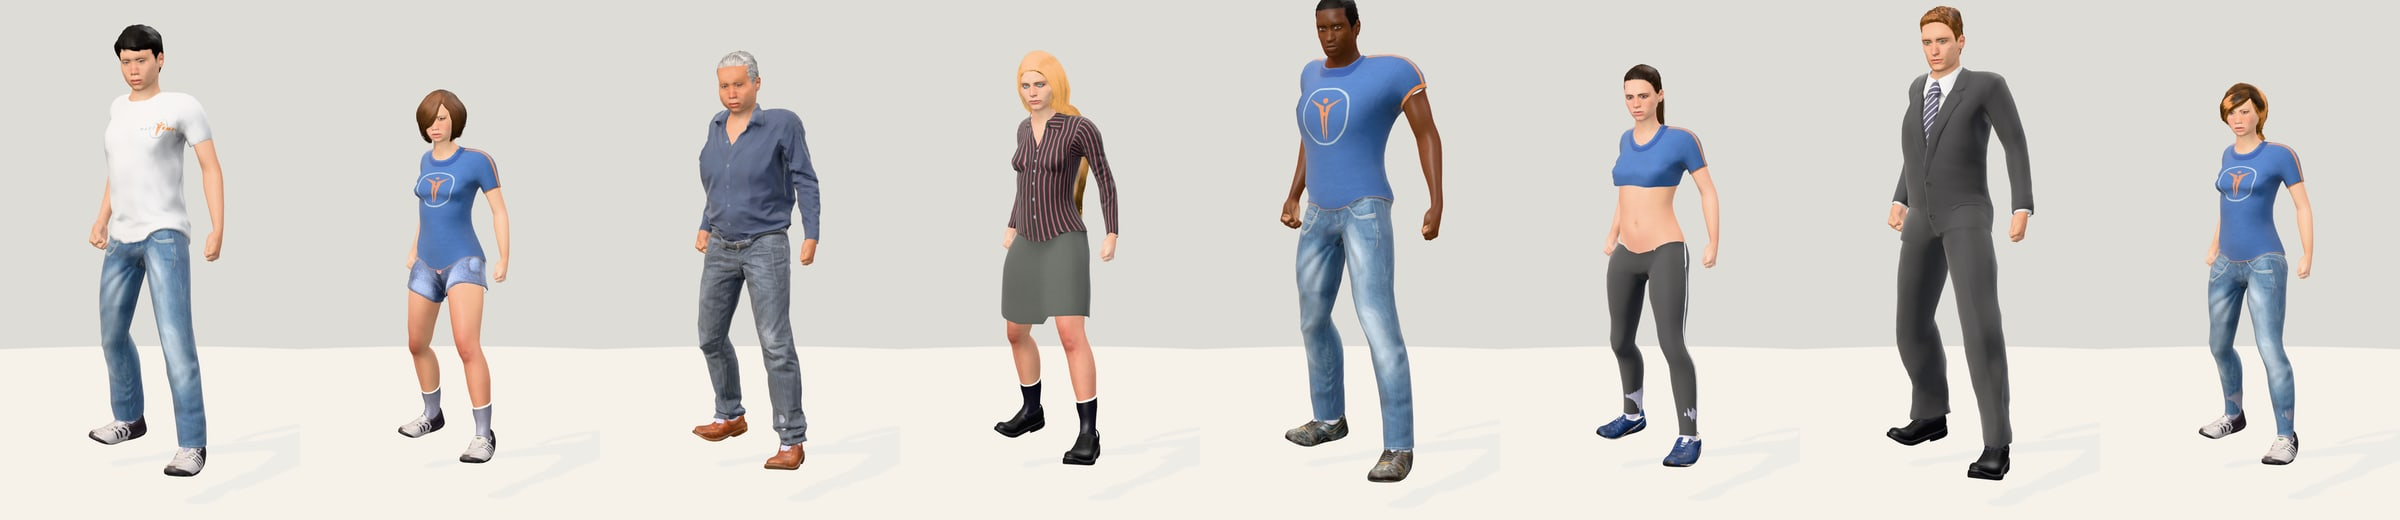
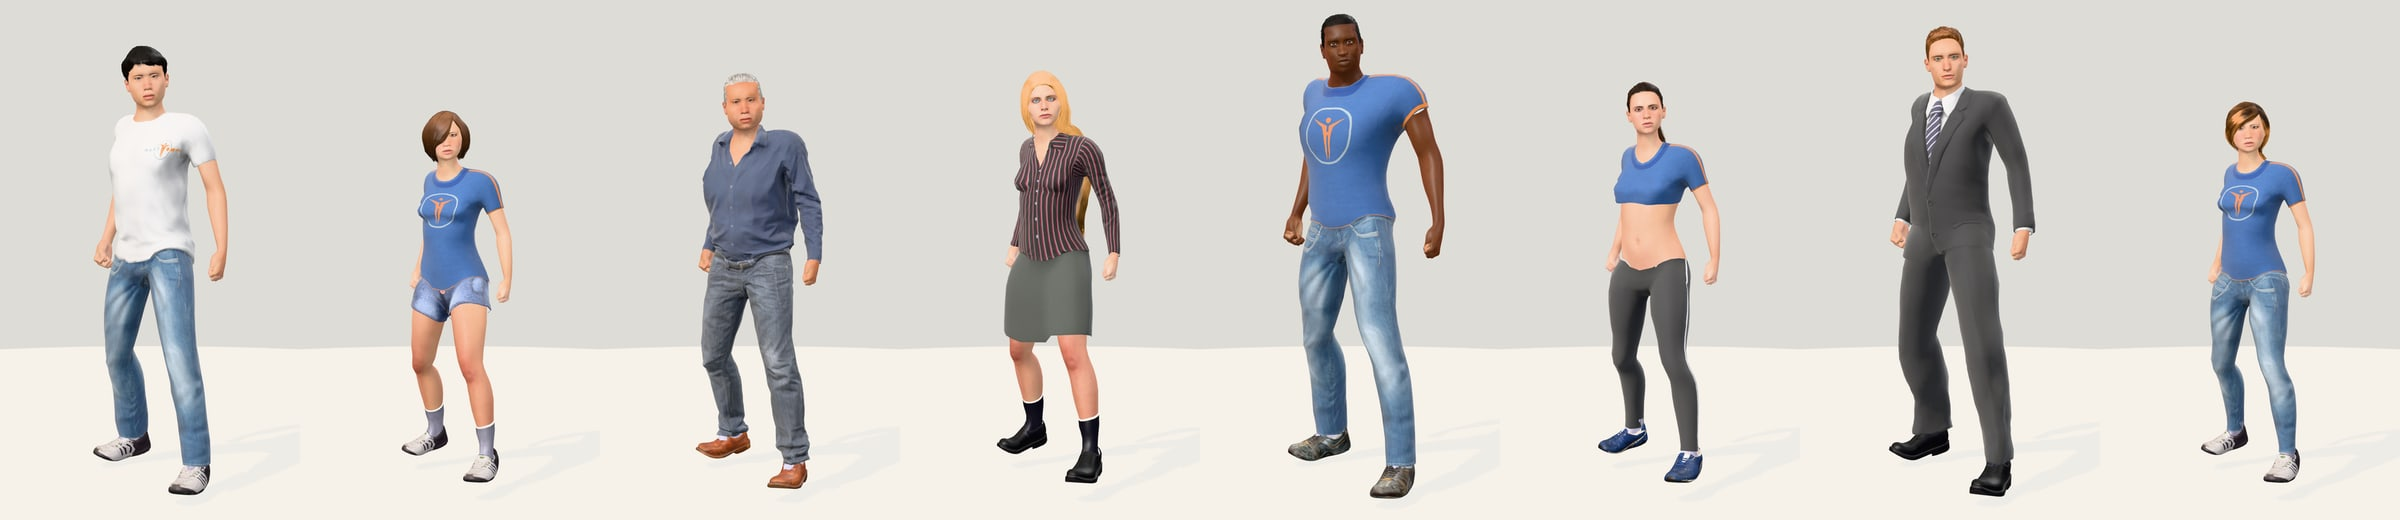
Creator: fix floating animations, look at the camera, framing, sock poke-through
- Hip height used pelvisRest.y + groundY with a negative groundY, so every
  clip moved the hips the wrong way (up instead of down, backwards instead
  of forwards) and characters floated ~10 cm in idle and walk; use
  pelvisRest.y - groundY in playback and in the .glb export
- Stop zeroing the hip z offset on loops: the library's loops are already
  in place, and crouch, push and sit need the hips back to stay balanced
- Calm clips (idle, talking, sitting, crouch idle) turn neck and head
  toward the camera within limits, fading out on active clips; the
  library's idle looks ~12 degrees down, which read as staring at the floor
- Full-body framing uses the real top of body, hair and hat
- Hide shoe faces whose anchor body vertices are all covered by an outer
  outfit, so sneaker socks no longer poke through leggings
- Previews regenerated; README notes updated

Claude-Session: https://claude.ai/code/session_0144Myy6e38g8r8YvUr92puP

diff --git a/viewer/creator.html b/viewer/creator.html
@@ -632,7 +632,7 @@ async function setSlot(slot, id) {
 }
 
 // —— 形状：参数 → 目标权重 → 顶点 → 身体、代理、骨架 ——
-let P = new Float32Array(H.nv * 3), groundY = 0, heightCm = 0, heightOut = null;
+let P = new Float32Array(H.nv * 3), groundY = 0, topY = 1.7, heightCm = 0, heightOut = null;
 const dirty = { shape: true, skin: true };
 let hiddenDirty = true;
 function childRace() {
@@ -672,6 +672,7 @@ function updateShape() {
   for (let r = 0; r < NR; r++) { const y = pos.array[r * 3 + 1]; if (y < lo) lo = y; if (y > hi) hi = y; }
   heightCm = Math.round((hi - lo) * 100);
   if (heightOut?.isConnected) heightOut.textContent = `${heightCm}cm`;
+  let top = hi;
   for (const s of Object.values(SLOTS)) {
     const p = s.p;
     HM.fitProxy(p, P, s.P);
@@ -681,8 +682,9 @@ function updateShape() {
     a.needsUpdate = true; s.geo.attributes.normal.needsUpdate = true;
     s.geo.computeBoundingSphere();
     if (p.cat === 'shoes') for (let i = 0; i < p.nv; i++) lo = Math.min(lo, s.P[i * 3 + 1]);
+    if (p.cat === 'hair' || p.cat === 'hat') for (let i = 0; i < p.nv; i++) top = Math.max(top, s.P[i * 3 + 1]);
   }
-  groundY = lo;
+  groundY = lo; topY = top;
   bodyGeo.computeBoundingSphere();
   bindRest();
   timing.shape = performance.now() - t0;
@@ -693,10 +695,29 @@ function updateHidden() {
   const del = new Uint8Array(H.nv);
   let any = false;
   for (const s of Object.values(SLOTS)) if (s.p.data.del) { any = true; for (const v of s.p.data.del) del[v] = 1; }
-  if (!any) { bodyGeo.setIndex(new THREE.BufferAttribute(H.body.index, 1)); return; }
-  const src = H.body.index, map = H.body.map, out = [];
-  for (let t = 0; t < src.length; t += 3) if (!del[map[src[t]]] && !del[map[src[t + 1]]] && !del[map[src[t + 2]]]) out.push(src[t], src[t + 1], src[t + 2]);
-  bodyGeo.setIndex(new THREE.BufferAttribute(Uint16Array.from(out), 1));
+  if (!any) bodyGeo.setIndex(new THREE.BufferAttribute(H.body.index, 1));
+  else {
+    const src = H.body.index, map = H.body.map, out = [];
+    for (let t = 0; t < src.length; t += 3) if (!del[map[src[t]]] && !del[map[src[t + 1]]] && !del[map[src[t + 2]]]) out.push(src[t], src[t + 1], src[t + 2]);
+    bodyGeo.setIndex(new THREE.BufferAttribute(Uint16Array.from(out), 1));
+  }
+  // 叠穿：外层衣服（z 更大）盖住的那些身体顶点上，里层的鞋也不画——运动鞋里的袜子一直到小腿，穿长裤时会从裤腿里透出来。
+  // 鞋的顶点挂在身体的三个顶点上，三个都被外层盖住才算盖住；一个面的三个顶点都盖住了才不画
+  for (const s of Object.values(SLOTS)) {
+    if (s.p.cat !== 'shoes') continue;
+    const d = s.p.data, cover = new Uint8Array(H.nv);
+    let covered = false;
+    for (const o of Object.values(SLOTS)) if (o !== s && o.p.data.del && o.p.z > s.p.z) { covered = true; for (const v of o.p.data.del) cover[v] = 1; }
+    if (!covered) { s.geo.setIndex(new THREE.BufferAttribute(d.index, 1)); continue; }
+    const hid = new Uint8Array(s.p.nv);
+    for (let i = 0; i < s.p.nv; i++) {
+      hid[i] = 1;
+      for (let k = 0; k < 3; k++) if (d.w[i * 3 + k] > 1e-4 && !cover[d.ref[i * 3 + k]]) { hid[i] = 0; break; }
+    }
+    const src = d.index, out = [];
+    for (let t = 0; t < src.length; t += 3) if (!(hid[d.map[src[t]]] && hid[d.map[src[t + 1]]] && hid[d.map[src[t + 2]]])) out.push(src[t], src[t + 1], src[t + 2]);
+    s.geo.setIndex(new THREE.BufferAttribute(new src.constructor(out), 1));
+  }
 }
 
 // —— 骨架的静止姿势：关节位置跟着体型走，每次体型变了重新绑定 ——
@@ -780,13 +801,41 @@ function applyAnim(now) {
   if (!clip) { bones.forEach((b) => b.quaternion.identity()); bones[BI.pelvis].position.copy(pelvisRest); return; }
   const t = SHOT ? Number(params.get('t') ?? 0) : (now - animState.t0) / 1000;
   sampleClip(clip, t, localNow, hipsNow);
-  const hipH = pelvisRest.y + groundY; // 胯高（从地面算）
+  const hipH = pelvisRest.y - groundY; // 胯高（从地面算：整个人往下挪了 groundY，groundY 是负的）
   const b = SHOT ? 1 : Math.min(1, (now - animState.blend0) / 350), e = b * b * (3 - 2 * b);
   bones.forEach((bone, i) => bone.quaternion.copy(prevLocal[i]).slerp(localNow[i], e));
   const hp = hipsNow.multiplyScalar(hipH);
-  // 原地循环：走路、跑步的前后位移不要（相机跟不上），只留上下起伏和左右晃
-  if (clip.loop) hp.z = 0;
+  // 动作库里的循环动作本来就是原地的；蹲、坐、推这些胯往后坐的位移要留着，不然人会往前栽
   bones[BI.pelvis].position.copy(pelvisRest).add(hipsPrev.clone().lerp(hp, e));
+}
+
+// —— 头看镜头：动作库的待机是给大头卡通角色做的，低着头（脸朝下 12° 左右）；捏人的时候让脖子和头往镜头那边转一些，
+//    像 GTA 的创建器那样看着你。只在待机、说话、坐、蹲这些安静的动作里做，换到动作大的片段时慢慢放开 ——
+const LOOK_CLIPS = new Set(['idle', 'idle_talking', 'sitting_idle', 'crouch_idle']);
+let lookW = 0;
+function headLook(dt) {
+  const want = !CLIPS[animState.id] || LOOK_CLIPS.has(animState.id) ? 1 : 0;
+  lookW += (want - lookW) * Math.min(1, dt * 3);
+  if (lookW < 0.01) return;
+  rig.updateMatrixWorld(true);
+  const head = bones[BI.head], neck = bones[BI.neck_01];
+  const chest = bones[BI.spine_03].getWorldQuaternion(new THREE.Quaternion()), chestInv = chest.clone().invert();
+  // 在胸口的坐标系里算：脸现在朝哪、镜头在哪。左右最多转 34°，上下 -26° ~ +20°；镜头转到身后就不转了
+  const f = new THREE.Vector3(0, 0, 1).applyQuaternion(head.getWorldQuaternion(new THREE.Quaternion())).applyQuaternion(chestInv).normalize();
+  const d = camera.position.clone().sub(head.getWorldPosition(new THREE.Vector3())).normalize().applyQuaternion(chestInv);
+  const yaw = Math.atan2(d.x, d.z), pitch = Math.asin(Math.max(-1, Math.min(1, d.y)));
+  const w = lookW * Math.max(0, Math.min(1, (Math.PI * 0.75 - Math.abs(yaw)) / (Math.PI * 0.25)));
+  if (w < 0.01) return;
+  const cy = Math.max(-0.6, Math.min(0.6, yaw)), cp = Math.max(-0.45, Math.min(0.35, pitch));
+  const t = new THREE.Vector3(Math.sin(cy) * Math.cos(cp), Math.sin(cp), Math.cos(cy) * Math.cos(cp));
+  const R = chest.clone().multiply(new THREE.Quaternion().setFromUnitVectors(f, t)).multiply(chestInv); // 世界空间里要补的转动
+  // 脖子转 40%，头转剩下的 60%（同一根轴，分两段转，加起来正好是 R）；局部 = 父⁻¹ · R · 父 · 局部
+  for (const [bone, part] of [[neck, 0.4 * w], [head, 0.6 * w]]) {
+    const pw = bone.parent.getWorldQuaternion(new THREE.Quaternion());
+    const Rp = new THREE.Quaternion().slerp(R, part);
+    bone.quaternion.premultiply(pw).premultiply(Rp).premultiply(pw.clone().invert());
+    bone.updateMatrixWorld(true);
+  }
 }
 
 // —— 眼睛看镜头 ——
@@ -914,12 +963,14 @@ function visible() {
   return { fw: Math.max(0.3, (b.x1 - b.x0) / innerWidth), fh: Math.max(0.25, (b.y1 - b.y0) / innerHeight) };
 }
 let camAnim = null, focusKind = 'full';
-// 头顶高度：头骨尾关节（头顶）再往上一点
+// 头部取景的基准：头骨尾关节再往上一点（比头顶低一些，脸的几个镜头都按它来定）
 const headTop = () => (J ? J[H.rig.bones[BI.head].tail * 3 + 1] - groundY + 0.02 : 1.7);
+// 全身取景：整个人真正的最高点（身体、头发、帽子），从鞋底算
+const figureTop = () => topY - groundY + 0.02;
 function focus(kind, instant = false) {
   focusKind = kind;
   const f = FOCUS[kind] ?? FOCUS.full;
-  const Hh = SHOT && params.has('frameH') ? Number(params.get('frameH')) : headTop();
+  const Hh = SHOT && params.has('frameH') ? Number(params.get('frameH')) : kind === 'full' ? figureTop() : headTop();
   const t = new THREE.Vector3(...f.t(Hh));
   // 对着脸的镜头跟着头现在的位置（动作里头会晃、会低下去）
   if (kind !== 'full' && J) {
@@ -1093,7 +1144,7 @@ function renderPane() {
   } else if (tab === 'motion') {
     g.push(group('动作', 'Quaternius（CC0）', chips([['', '站着不动'], ...ANIM.clips.map((c) => [c.id, c.label])], S.anim, (id) => { S.anim = id; startAnim(id); })));
     g.push(group('表情', null, chips(Object.entries(EXPR).map(([id, e]) => [id, e.label]), S.expr, (id) => { S.expr = id; })));
-    g.push(el('p', { class: 'hint' }, '眼睛会看着镜头；平时每隔几秒眨一次眼。'));
+    g.push(el('p', { class: 'hint' }, '待机、说话、坐着的时候会转头看着镜头；眼睛一直跟着镜头，每隔几秒眨一次眼。'));
   }
   $('pane').replaceChildren(...g);
 }
@@ -1396,7 +1447,7 @@ async function exportModel() {
 function bakeClips() {
   const fps = ANIM.fps, out = [];
   const L = bones.map(() => new THREE.Quaternion()), hp = new THREE.Vector3();
-  const hipH = pelvisRest.y + groundY;
+  const hipH = pelvisRest.y - groundY;
   for (const clip of ANIM.clips) {
     const n = clip.frames + (clip.loop ? 1 : 0);
     const times = new Float32Array(n), qv = bones.map(() => new Float32Array(n * 4)), pv = new Float32Array(n * 3);
@@ -1405,7 +1456,6 @@ function bakeClips() {
       sampleClip(clip, i / fps, L, hp);
       L.forEach((q, j) => q.toArray(qv[j], i * 4));
       const p = hp.multiplyScalar(hipH);
-      if (clip.loop) p.z = 0;
       pv.set([pelvisRest.x + p.x, pelvisRest.y + p.y, pelvisRest.z + p.z], i * 3);
     }
     const tracks = bones.map((b, j) => new THREE.QuaternionKeyframeTrack(`${b.name}.quaternion`, times, qv[j]));
@@ -1507,6 +1557,7 @@ function step(now) {
   }
   applyAnim(now);
   applyExpr(dt);
+  headLook(dt);
   rig.updateMatrixWorld(true);
   eyeLook();
   renderer.render(scene, camera);
@@ -1528,7 +1579,7 @@ if (SHOT) {
         camera.position.set(t.x + d * Math.sin(a) * Math.cos(e), t.y + d * Math.sin(e), t.z + d * Math.cos(a) * Math.cos(e));
         controls.update();
       }
-      rig.updateMatrixWorld(true); eyeLook(); rig.updateMatrixWorld(true);
+      headLook(1); rig.updateMatrixWorld(true); eyeLook(); rig.updateMatrixWorld(true);
       renderer.render(scene, camera);
       setTimeout(() => { renderer.render(scene, camera); window.__ready = true; }, 80);
     });
